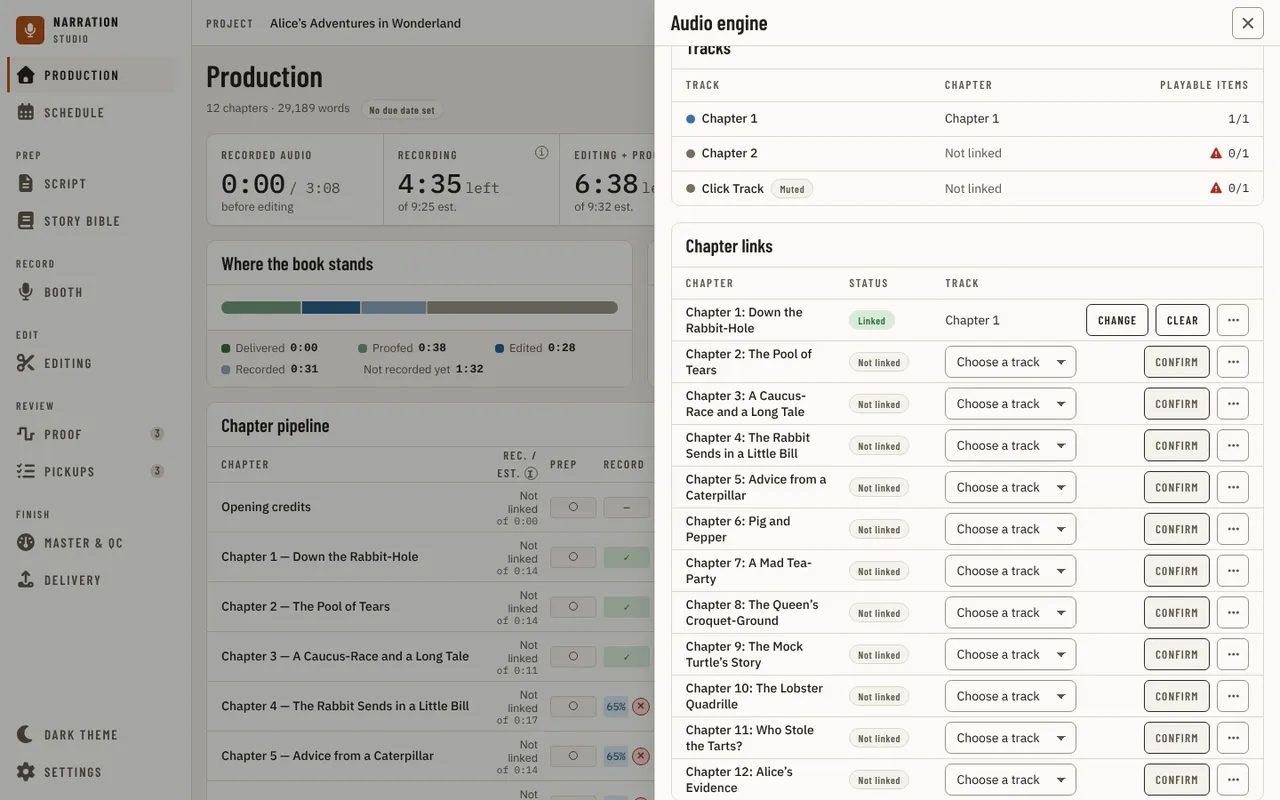
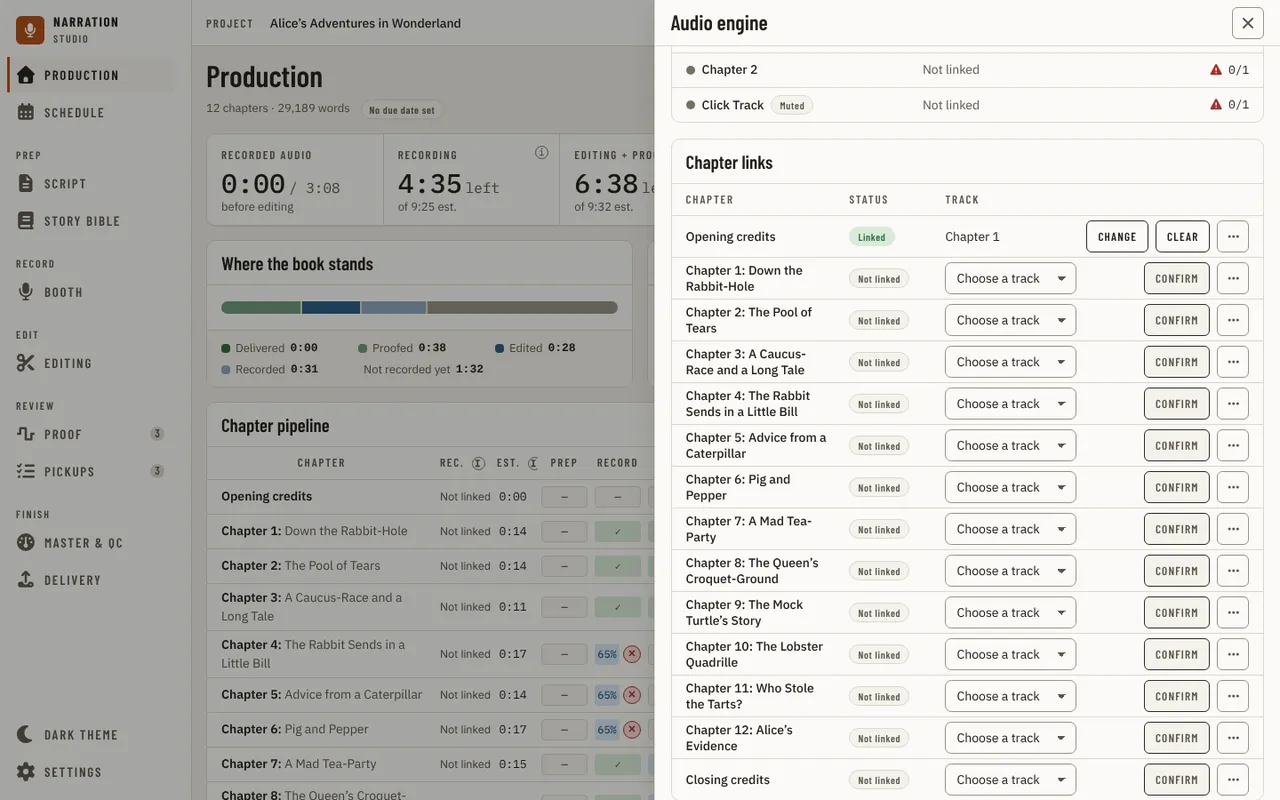
fix(engine): link the opening and closing credits to a track (#2563)

diff --git a/src/studio/ui/src/components/engine/ChapterLinksTable.tsx b/src/studio/ui/src/components/engine/ChapterLinksTable.tsx
@@ -1,8 +1,10 @@
 import { headingName } from '../../chapterHeading';
-import { useCallback, useEffect, useState } from 'react';
+import { useCallback, useEffect, useMemo, useState } from 'react';
 import { useNavigate } from 'react-router-dom';
 import { chapterName } from '../../chapterName';
 import { useApi } from '../../api/ApiContext';
+import { CREDITS_ID, CREDITS_NAME, creditsEntries, creditsKindOfId, ownsOpeningCredits } from '../credits/creditsEntries';
+import { useCreditsRows } from '../credits/useCreditsRows';
 import { EditingCheckPanel } from '../editing/EditingCheckPanel';
 import { plainTrackChoices } from '../mapping/trackChoices';
 import { TrackSelect } from '../mapping/TrackSelect';
@@ -91,7 +93,17 @@ export function ChapterLinksTable({ tracks, refreshKey, notify, onChanged }: { t
       .finally(() => setBusyChapterId(''));
   };
 
-  const rows = chapterTrackRows(chapters, tracks, mappings);
+  const credits = useCreditsRows(String(refreshKey ?? 0), () => undefined);
+  // The opening and closing credits are recorded like a chapter and linked through the same bindings, but the manuscript's chapter list never
+  // holds them, so they join the rows here: opening before the first chapter, closing after the last.
+  const rows = useMemo(() => {
+    const entries = creditsEntries(credits.rows, ownsOpeningCredits(chapters));
+    const asChapter = (kind: 'opening' | 'closing', index: number): ManuscriptChapter[] =>
+      entries[kind]
+        ? [{ id: CREDITS_ID[kind], title: CREDITS_NAME[kind], index, wordCount: entries[kind].words, status: entries[kind].status, contentKind: 'narration' }]
+        : [];
+    return chapterTrackRows([...asChapter('opening', -2), ...chapters, ...asChapter('closing', chapters.length + 1)], tracks, mappings);
+  }, [credits.rows, chapters, tracks, mappings]);
   // Nothing to link before a manuscript is imported: the mapping is scoped to a document.
   if (chapters.length === 0) return null;
 
@@ -187,7 +199,8 @@ function ChapterLinkRow({
   const showPicker = picking && choices.length > 0;
   const menu: MenuItem[] = [
     // Editing is where a linked chapter is heard and edited; Proof's chapter view keeps its compare run and stage panels.
-    ...(row.state === 'linked'
+    // Editing and Proof open a manuscript chapter; the credits are not in their chapter lists, so their rows offer the check only.
+    ...(row.state === 'linked' && !creditsKindOfId(row.chapter.id)
       ? [
           { key: 'editing', label: 'Open in Editing', onSelect: () => navigate(addressPath({ page: 'editing', chapter: row.chapter.id })) },
           { key: 'proof', label: 'Open in Proof', onSelect: () => navigate(`/proof/${encodeURIComponent(row.chapter.id)}`) },

diff --git a/src/studio/ui/src/api/mockHost/chapterTracks.ts b/src/studio/ui/src/api/mockHost/chapterTracks.ts
@@ -219,10 +219,12 @@ export function createChapterTracksMock(
     chapterTrackSet: async (chapterId, trackGuid) => {
       await manuscriptReady;
       const chapter = s.chapters.find((candidate) => candidate.id === chapterId);
-      if (!chapter) throw new Error('that chapter is not part of the current manuscript');
+      // The host's chapterTitle takes the credits ids too (mapping.go), so Set must as well.
+      const title = chapter?.title ?? CREDITS_CHECK_TITLE[chapterId];
+      if (!title) throw new Error('that chapter is not part of the current manuscript');
       if (!trackGuid) throw new Error('choose a track before linking a chapter');
       const displaced = s.chapterTrackMappings.find((existing) => existing.trackGuid === trackGuid && existing.chapterId !== chapterId) ?? null;
-      const link: TrackMapping = { trackGuid, chapterId, chapterTitle: chapter.title, confirmedAt: new Date().toISOString(), origin: 'manual', match: null };
+      const link: TrackMapping = { trackGuid, chapterId, chapterTitle: title, confirmedAt: new Date().toISOString(), origin: 'manual', match: null };
       s.chapterTrackMappings = [...s.chapterTrackMappings.filter((existing) => existing.trackGuid !== trackGuid && existing.chapterId !== chapterId), link];
       return wireClone({ documentId: mockDocumentId, link, displaced, mappings: s.chapterTrackMappings });
     },
@@ -254,7 +256,8 @@ export function createChapterTracksMock(
     },
     chapterTrackUnlink: async (chapterId) => {
       await manuscriptReady;
-      if (!s.chapters.some((candidate) => candidate.id === chapterId)) throw new Error('that chapter is not part of the current manuscript');
+      if (!s.chapters.some((candidate) => candidate.id === chapterId) && !CREDITS_CHECK_TITLE[chapterId])
+        throw new Error('that chapter is not part of the current manuscript');
       s.chapterTrackMappings = s.chapterTrackMappings.filter((existing) => existing.chapterId !== chapterId);
       return { documentId: mockDocumentId, mappings: wireClone(s.chapterTrackMappings) };
     },

diff --git a/src/studio/ui/src/components/engine/ChapterLinksTable.test.tsx b/src/studio/ui/src/components/engine/ChapterLinksTable.test.tsx
@@ -44,6 +44,24 @@ function chapterRow(table: HTMLElement, title: string): HTMLTableRowElement {
 }
 
 describe('ChapterLinksTable', () => {
+  // The owner could not link the opening or closing credits to a track: the table listed only the manuscript's chapters, and the credits
+  // are never in that list, though the host takes their ids (credits-opening, credits-closing) in chapterTrackSet like a chapter's.
+  it('lists the opening credits first and the closing credits last, and links them to a track', async () => {
+    const user = userEvent.setup();
+    const api = renderTable();
+    const table = await screen.findByRole('table', { name: 'Chapter links' });
+    await waitFor(() => expect(within(table).getByRole('cell', { name: 'Opening credits' })).toBeTruthy());
+    const rows = within(table).getAllByRole('row');
+    expect(within(rows[1]).getByRole('cell', { name: 'Opening credits' })).toBeTruthy();
+    expect(within(rows[rows.length - 1]).getByRole('cell', { name: 'Closing credits' })).toBeTruthy();
+
+    const opening = chapterRow(table, 'Opening credits');
+    await user.selectOptions(within(opening).getByRole('combobox'), WIRE_TRACKS_PROJECT.tracks[0].guid);
+    await user.click(within(opening).getByRole('button', { name: 'Confirm' }));
+    await waitFor(() => expect(within(chapterRow(table, 'Opening credits')).getByText('Linked')).toBeTruthy());
+    expect((await api.chapterTrackMapList()).mappings.some((m) => m.chapterId === 'credits-opening')).toBe(true);
+  });
+
   it('lists every narration chapter as not linked when nothing is confirmed', async () => {
     renderTable();
 

diff --git a/src/studio/desktop/creditsrecordedlengths_test.go b/src/studio/desktop/creditsrecordedlengths_test.go
@@ -56,3 +56,24 @@ func TestCreditsRecordedLengthsNeverLeaksIntoAManuscriptChaptersOwn(t *testing.T
 		}
 	}
 }
+
+// The Engine page's Chapter links rows for the opening and closing credits go through ChapterTrackSet and ChapterTrackUnlink,
+// not only ChapterTrackMapConfirm: both must take a credits id, and the recorded length must follow the link.
+func TestCreditsLinkSetAndUnlinkTakeACreditsIDAndMoveItsRecordedLength(t *testing.T) {
+	host, _ := newTestHostForChapterMatch(t)
+	for _, id := range []string{"credits-opening", "credits-closing"} {
+		if _, err := host.ChapterTrackSet(id, chapterLinksTrack); err != nil {
+			t.Fatalf("ChapterTrackSet(%s) = %v, want a link", id, err)
+		}
+	}
+	got := creditsRecordedLengths(t, host)
+	if got["closing"]["recordedSeconds"] != 15.0 || got["opening"]["recordedUnavailable"] != "unlinked" {
+		t.Fatalf("after Set, credits lengths = %#v, want closing 15 s and opening unlinked (the track moved)", got)
+	}
+	if _, err := host.ChapterTrackUnlink("credits-closing"); err != nil {
+		t.Fatalf("ChapterTrackUnlink(credits-closing) = %v", err)
+	}
+	if got := creditsRecordedLengths(t, host); got["closing"]["recordedUnavailable"] != "unlinked" {
+		t.Fatalf("after Unlink, credits-closing = %#v, want unlinked", got["closing"])
+	}
+}

diff --git a/docs/guides/using-the-app/navigation.md b/docs/guides/using-the-app/navigation.md
@@ -287,7 +287,7 @@ have picked one. A track another chapter already has is marked in the list with 
 replaces the chapter's link, so a chapter is never left linked to two tracks; a track already
 linked to another chapter moves to this one. Clear removes every link the chapter has. If the
 confirmed track is deleted, or the project points somewhere else, the chapter shows **Track
-missing** until it's relinked or cleared. These links are kept in the app's own project data and never
+missing** until it's relinked or cleared. The list starts with **Opening credits** and ends with **Closing credits** (when the Script page has them), which link, change and clear the same way; their menu has **Editing check…** only. These links are kept in the app's own project data and never
 change the REAPER project.
 
 ![The audio engine panel's chapter links list with one chapter confirmed to a track](../../images/ui/engine-panel-chapter-links.webp)
